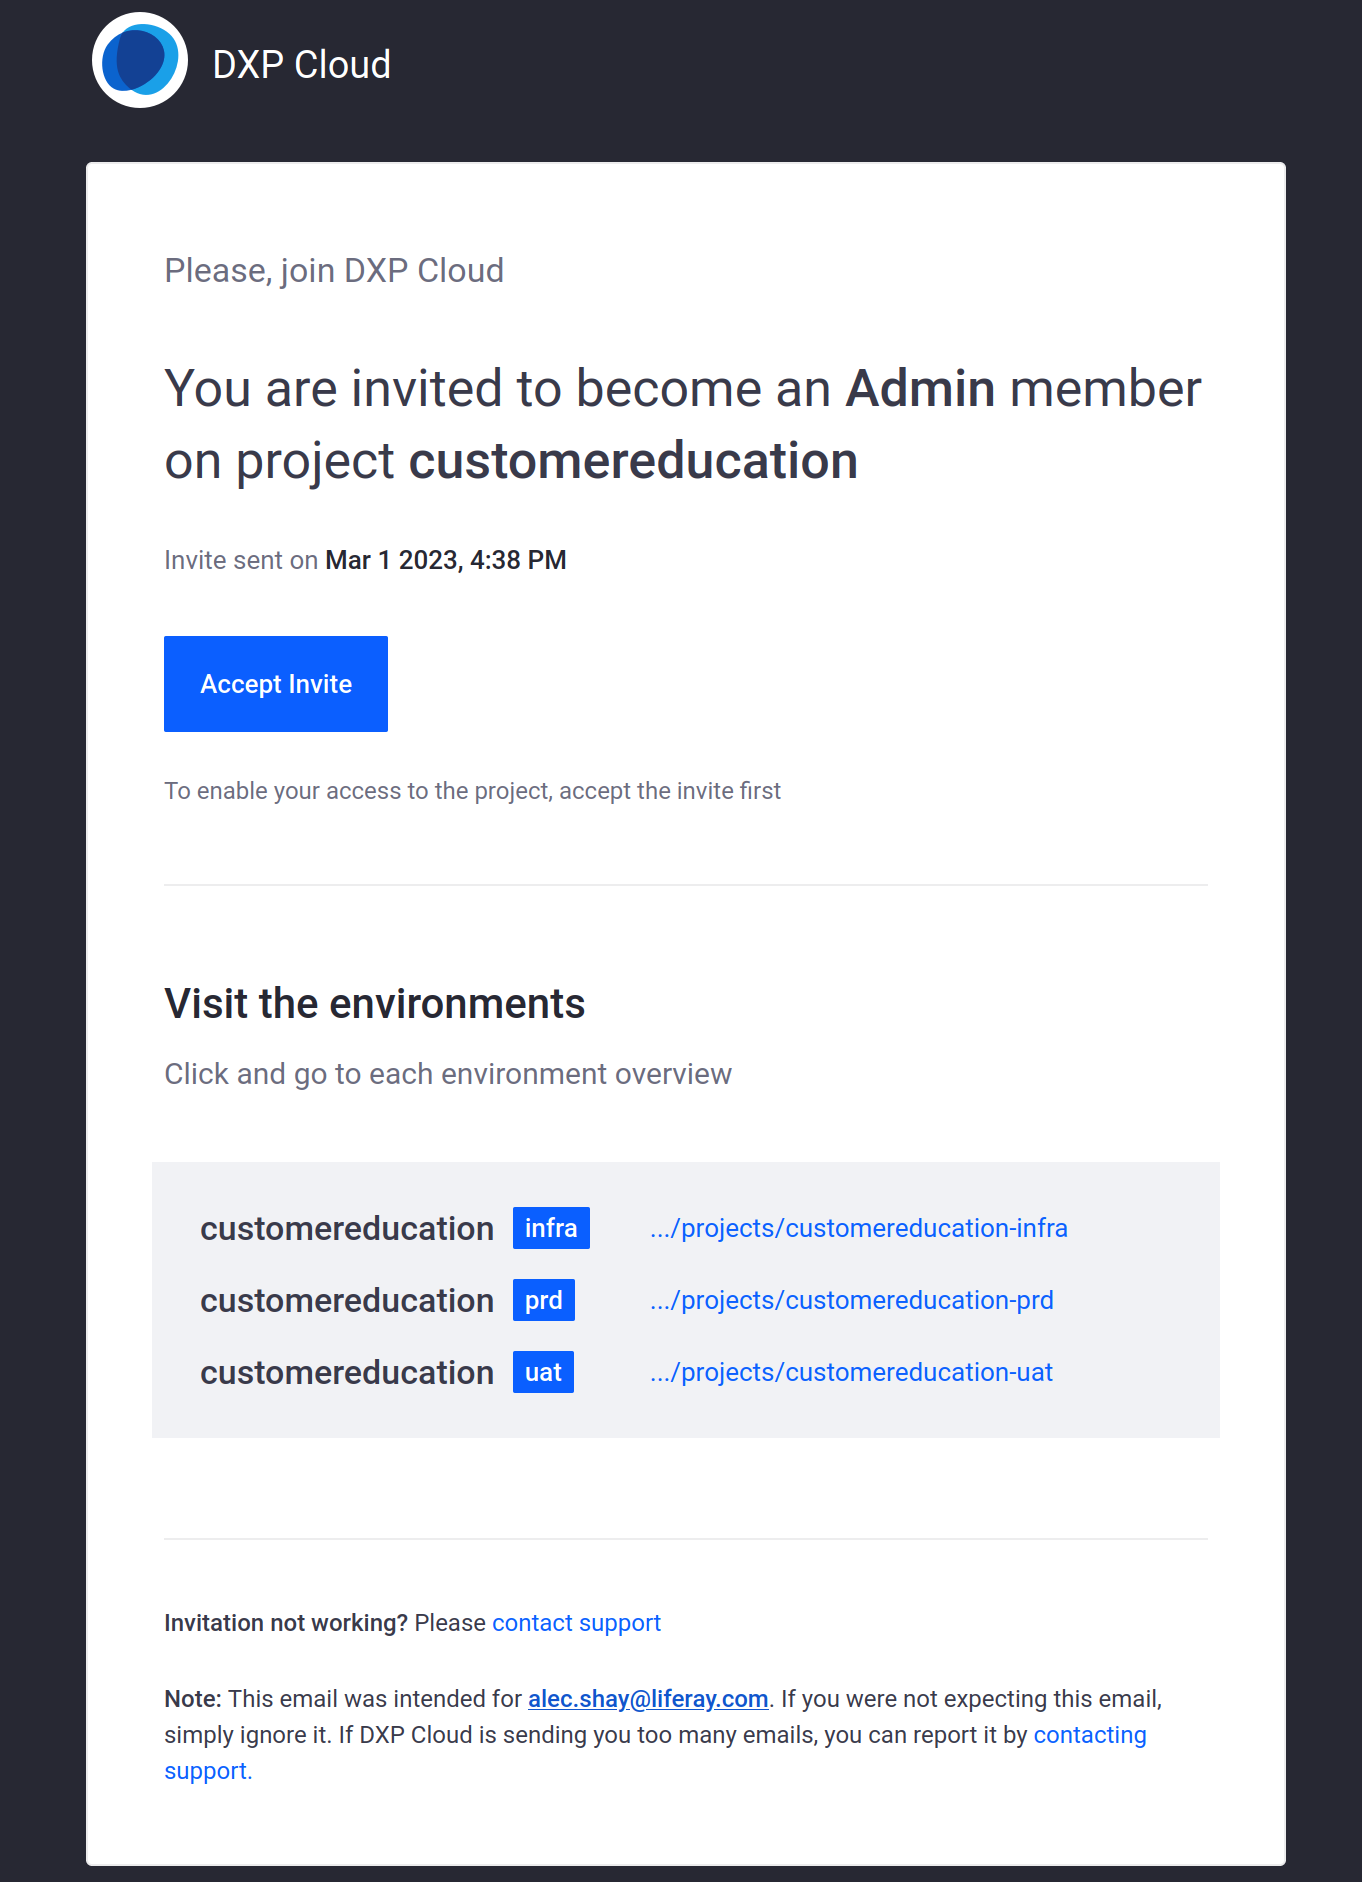
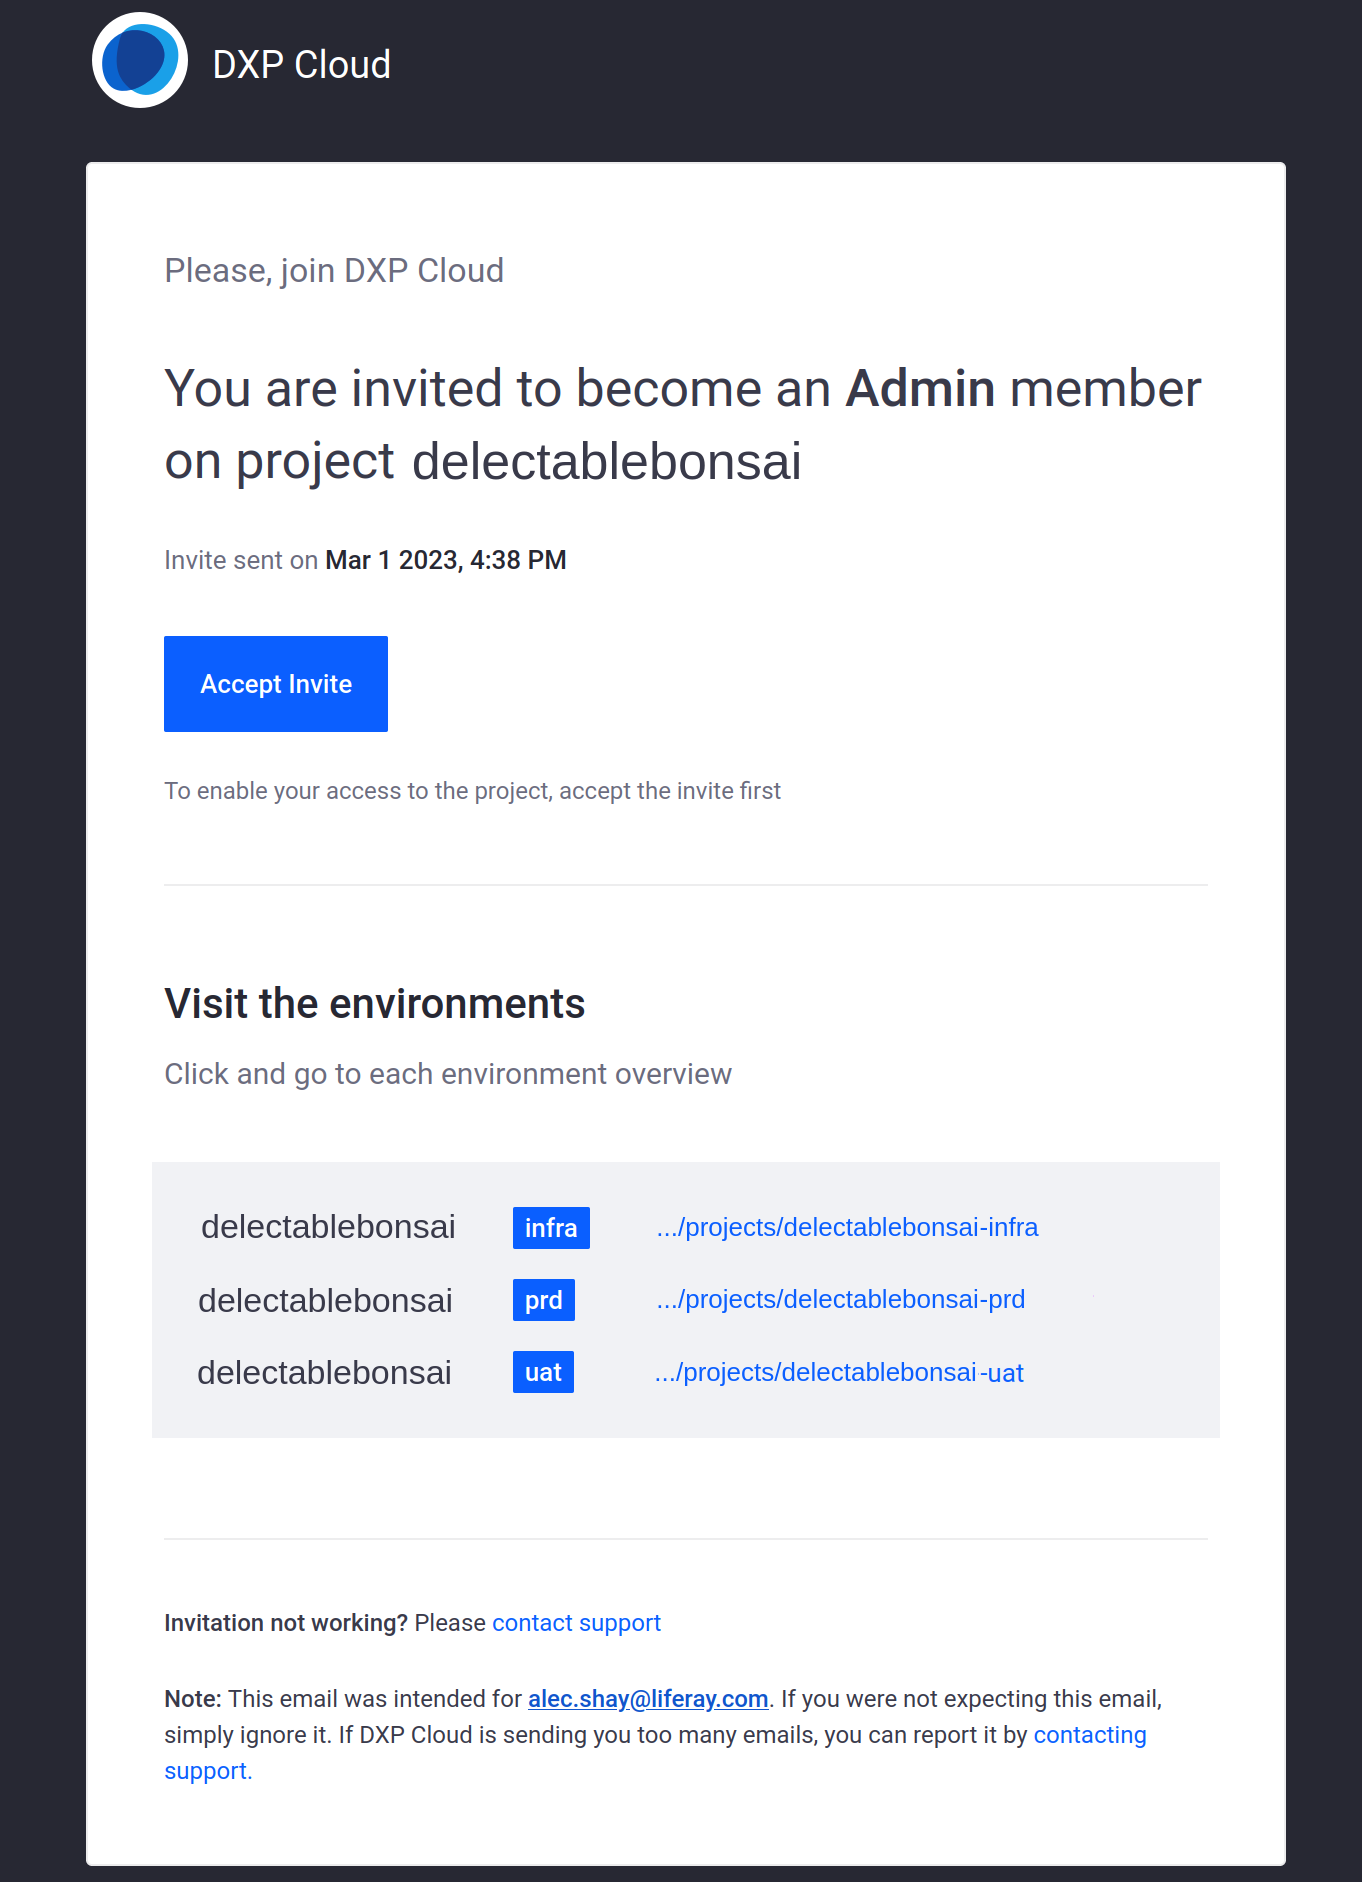
LRDOCS-11668, LRDOCS-11669 Edits and fixes per feedback

Changed region(s): [[0.4934, 0.6472, 0.7709, 0.7396], [0.1542, 0.6472, 0.37, 0.7396], [0.3084, 0.2157, 0.6167, 0.2774]]

diff --git a/docs/courses/latest/en/liferay-administrator/cloud-administrator/adding-team-members-to-the-project.md b/docs/courses/latest/en/liferay-administrator/cloud-administrator/adding-team-members-to-the-project.md
@@ -19,9 +19,7 @@ Help Marcus add Kyle Klein as a contributor to the team by sending an invitation
 
    ![Send an invitation to your team member's email address via the Team page.](./adding-team-members-to-the-project/images/01.png)
 
-1. Select *Contributor* from the Role drop-down menu for the appropriate role.
-
-<!-- We should link to a description of the roles here. -Rich --> 
+1. Select *Contributor* from the Role drop-down menu for the appropriate [role](https://learn.liferay.com/w/liferay-cloud/manage-and-optimize/environment-teams-and-roles#understanding-team-roles).
 
 1. Click *Send Invite*.
 
@@ -30,13 +28,11 @@ Liferay Cloud sends an invitation to the provided email address to join your pro
 Repeat this process for your other environments (such as `uat`) to make sure your team member has access to all of the appropriate environments.
 
 ```{note}
-Give your team members roles that are appropriate to their role in each environment. For example, developers should have the Admin role in a `dev` environment if they are expected to handle all tasks in that environment. Check [Environment Teams and Roles](https://learn.liferay.com/liferay-cloud/latest/en/manage-and-optimize/environment-teams-and-roles.html for more information.
+Give your team members roles that are appropriate to their role in each environment. For example, developers should have the Admin role in a `dev` environment if they are expected to handle all tasks in that environment. Check [Environment Teams and Roles](https://learn.liferay.com/w/liferay-cloud/manage-and-optimize/environment-teams-and-roles for more information.
 ```
 
 Next, you'll set up your GitHub repository so that you can push and deploy changes to your services.
 
 ## Related Concepts
 
-<!-- Please fix the link below so it points to the new location. -Rich -->
-
-* [Environment Teams and Roles](https://learn.liferay.com/liferay-cloud/latest/en/manage-and-optimize/environment-teams-and-roles.html)
+* [Environment Teams and Roles](https://learn.liferay.com/w/liferay-cloud/manage-and-optimize/environment-teams-and-roles)

diff --git a/docs/courses/latest/en/liferay-administrator/cloud-administrator/accessing-the-liferay-cloud-console.md b/docs/courses/latest/en/liferay-administrator/cloud-administrator/accessing-the-liferay-cloud-console.md
@@ -13,13 +13,9 @@ When your project has been provisioned, you receive an email from **liferay.clou
 
 ![Click the Accept Invite link in the invitation to gain access to the Liferay Cloud console.](./accessing-the-liferay-cloud-console/images/01.png)
 
-<!-- Please GIMPify/photoshop the above screenshot so the project says delectablebonsai. -Rich --> 
-
 The link takes you to the [Liferay Cloud console](https://console.liferay.cloud/). You must log in to accept the invitation. If you don't yet have an account, click *Sign up* and fill out the form.
 
 ![Click Sign up and fill out the form if you do not yet have an account for the console.](./accessing-the-liferay-cloud-console/images/02.png)
-
-<!-- The above screenshot is huge. Please reduce. -Rich --> 
 
 Once you have signed in, the invitation is accepted and you have full access to the project. Logging into the console at any time (or going to https://console.liferay.cloud/projects) shows a list of all the environments you can access. 
 
@@ -33,7 +29,5 @@ Take some time to navigate around the console to familiarize yourself with the a
 
 ## Related Concepts
 
-<!-- Please fix the links below so they point to their new locations. -Rich --> 
-
-* [Check Setup Emails](https://learn.liferay.com/liferay-cloud/latest/en/getting-started/initial-setup-overview.html#check-setup-emails)
-* [Access the Liferay Cloud Console](https://learn.liferay.com/liferay-cloud/latest/en/getting-started/initial-setup-overview.html#access-the-liferay-cloud-console)
+* [Check Setup Emails](https://learn.liferay.com/w/liferay-cloud/getting-started/initial-setup-overview#check-setup-emails)
+* [Access the Liferay Cloud Console](https://learn.liferay.com/w/liferay-cloud/getting-started/initial-setup-overview#access-the-liferay-cloud-console)
